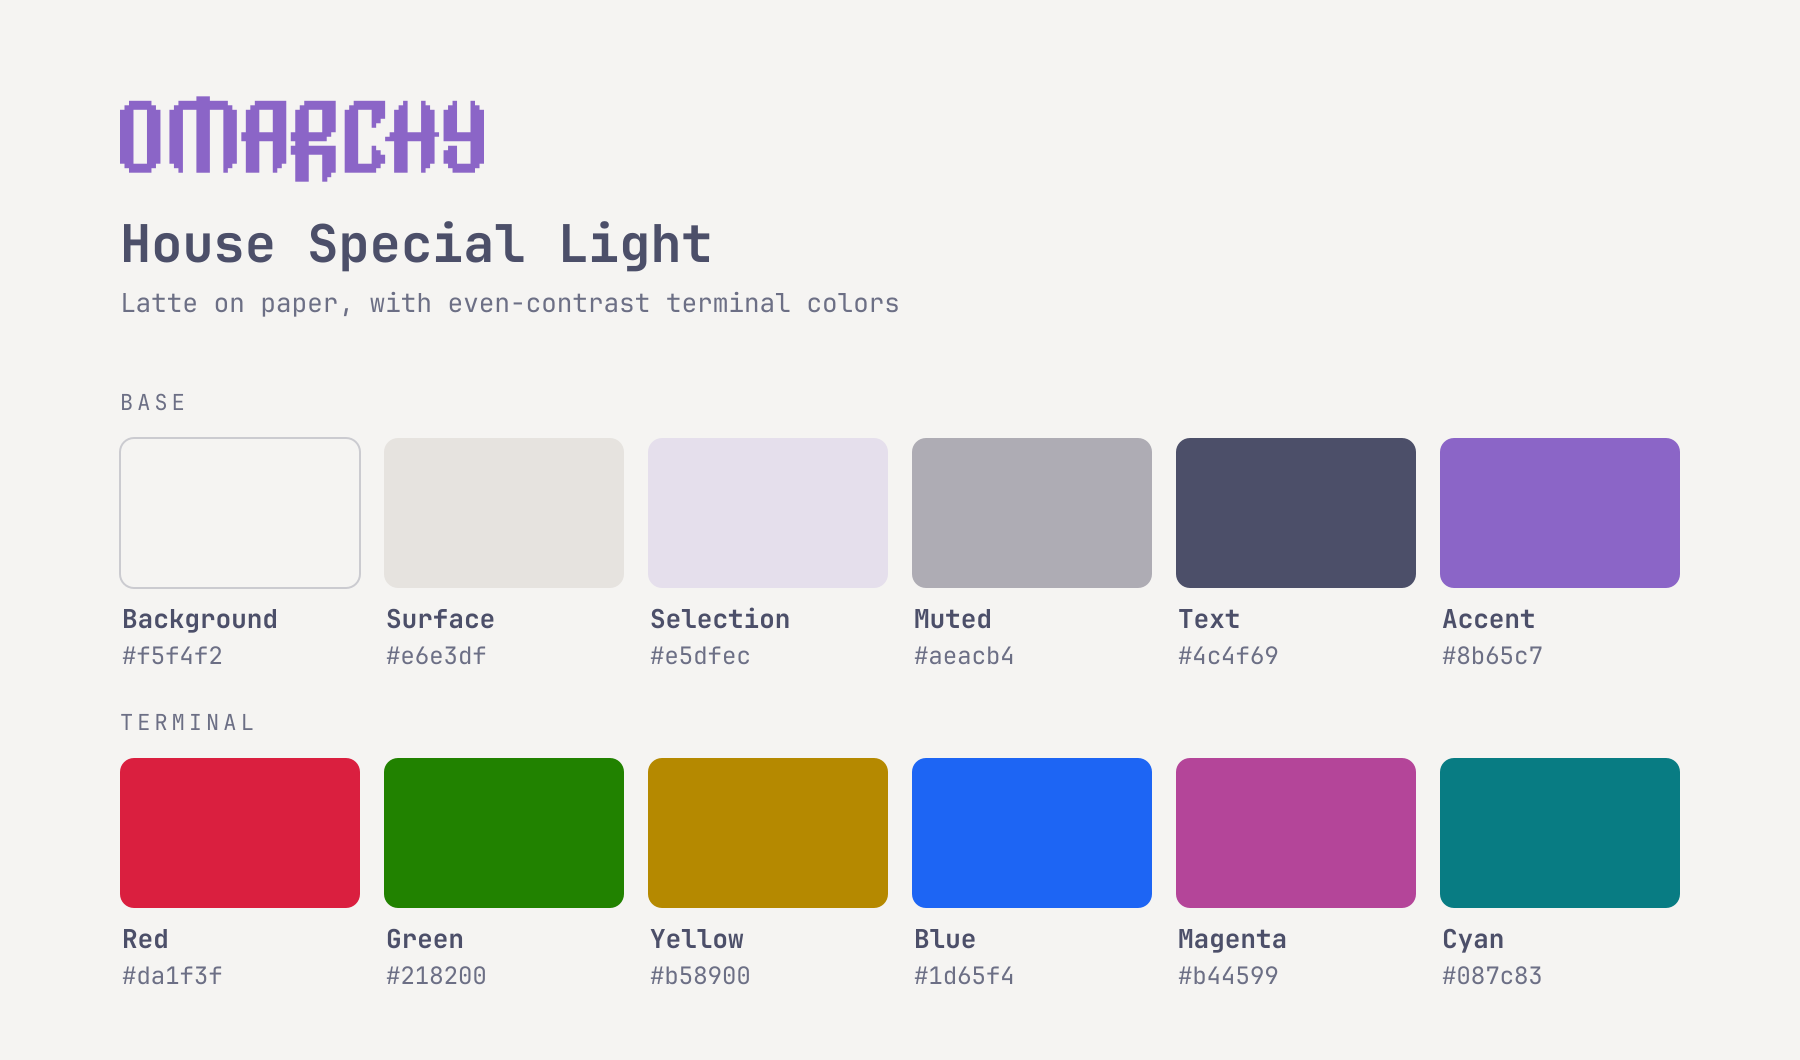
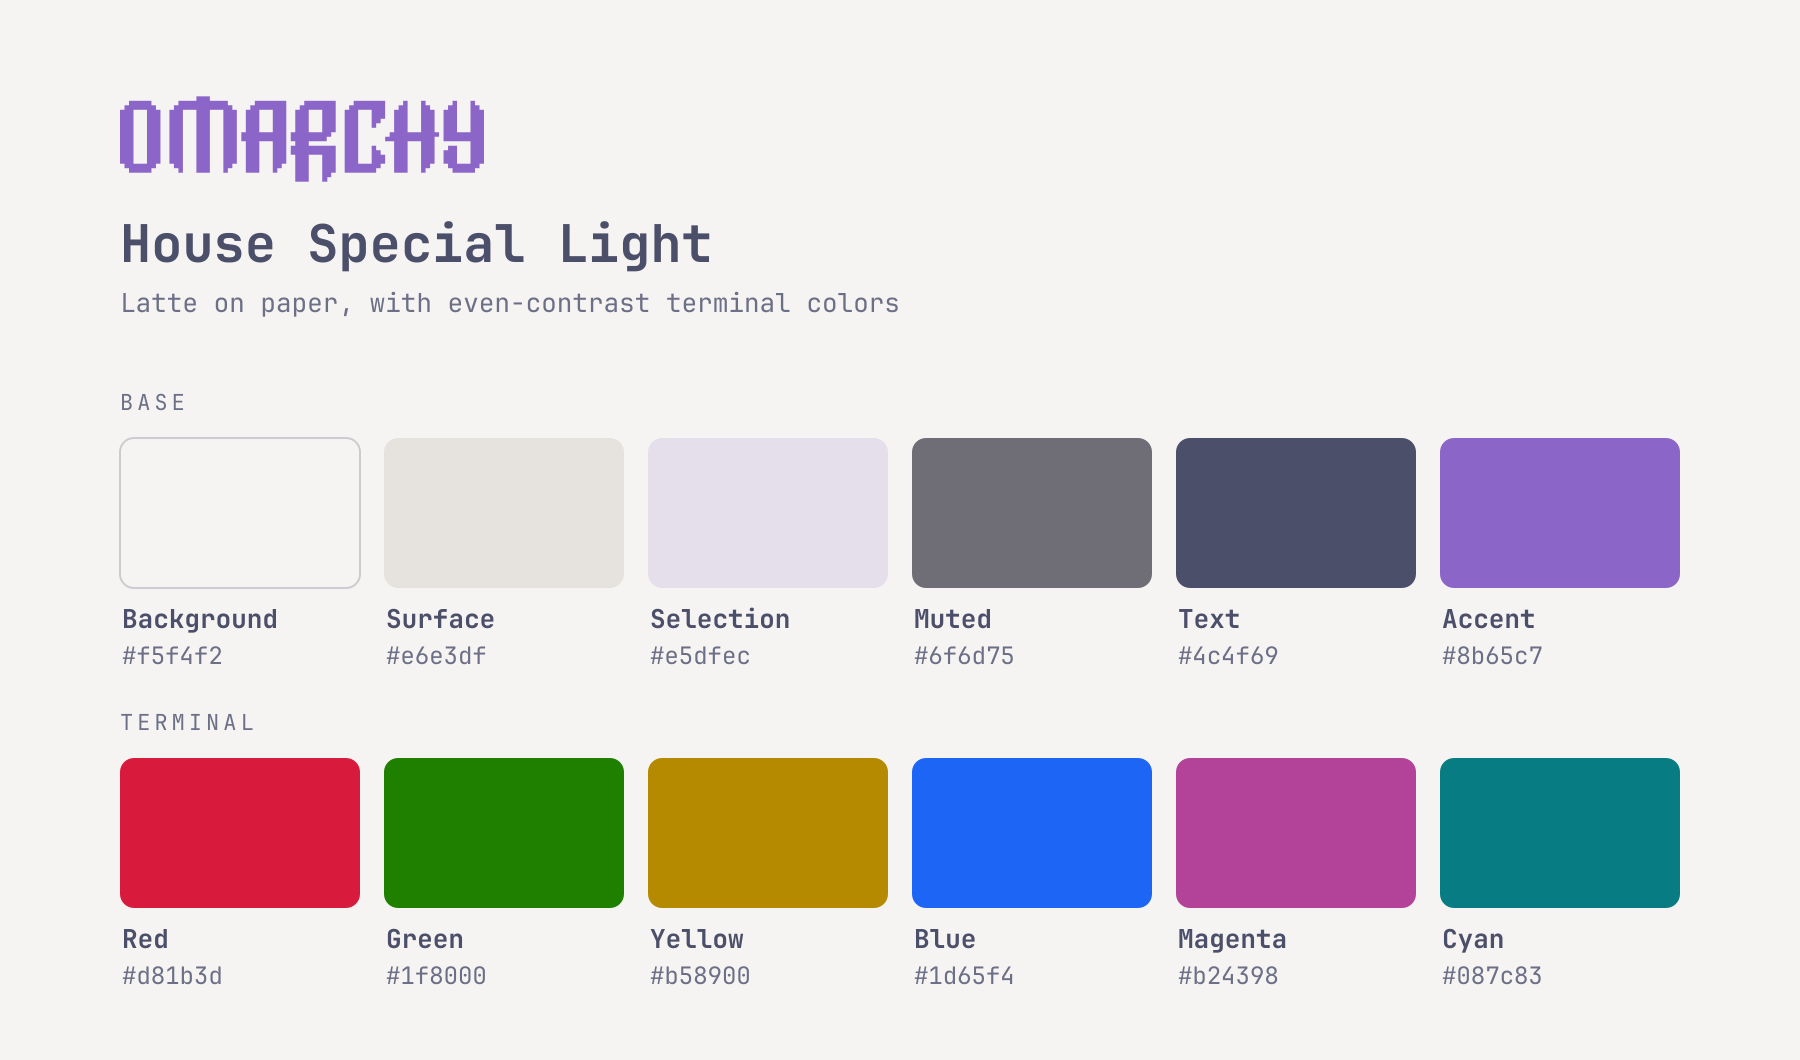
Raise muted and dim text contrast to WCAG AA
muted #aeacb4 -> #6f6d75 (2.0:1 -> 4.6:1); it is the terminal's bright
black, so autosuggestions and comments were unreadable.
dark_foreground #9ca0b0 -> #6b6e7d (2.4:1 -> 4.6:1).
Red, green and magenta nudged from 4.49-4.50:1 to 4.6:1 so they clear
AA instead of sitting on the line. Only OKLCH lightness changed.

diff --git a/hyprland-preview-share-picker.css b/hyprland-preview-share-picker.css
@@ -1,7 +1,7 @@
 @define-color foreground #4c4f69;
 @define-color background #f5f4f2;
 @define-color accent #8b65c7;
-@define-color muted #aeacb4;
+@define-color muted #6f6d75;
 @define-color card_bg #e6e3df;
 @define-color text_dark #f5f4f2;
 @define-color accent_hover #8b65c7;

diff --git a/README.md b/README.md
@@ -21,11 +21,11 @@ A light Catppuccin Latte theme for [Omarchy](https://omarchy.org), tuned so ever
 |---|---|---|
 | Text | `#4c4f69` | 7.3:1 |
 | Accent | `#8b65c7` | 4.0:1 |
-| Red | `#da1f3f` | 4.5:1 |
-| Green | `#218200` | 4.5:1 |
+| Red | `#d81b3d` | 4.6:1 |
+| Green | `#1f8000` | 4.6:1 |
 | Cyan | `#087c83` | 4.5:1 |
 | Blue | `#1d65f4` | 4.5:1 |
-| Magenta | `#b44599` | 4.5:1 |
+| Magenta | `#b24398` | 4.6:1 |
 | Orange | `#d75f00` | 3.5:1 |
 | Yellow | `#b58900` | 2.9:1 |
 
